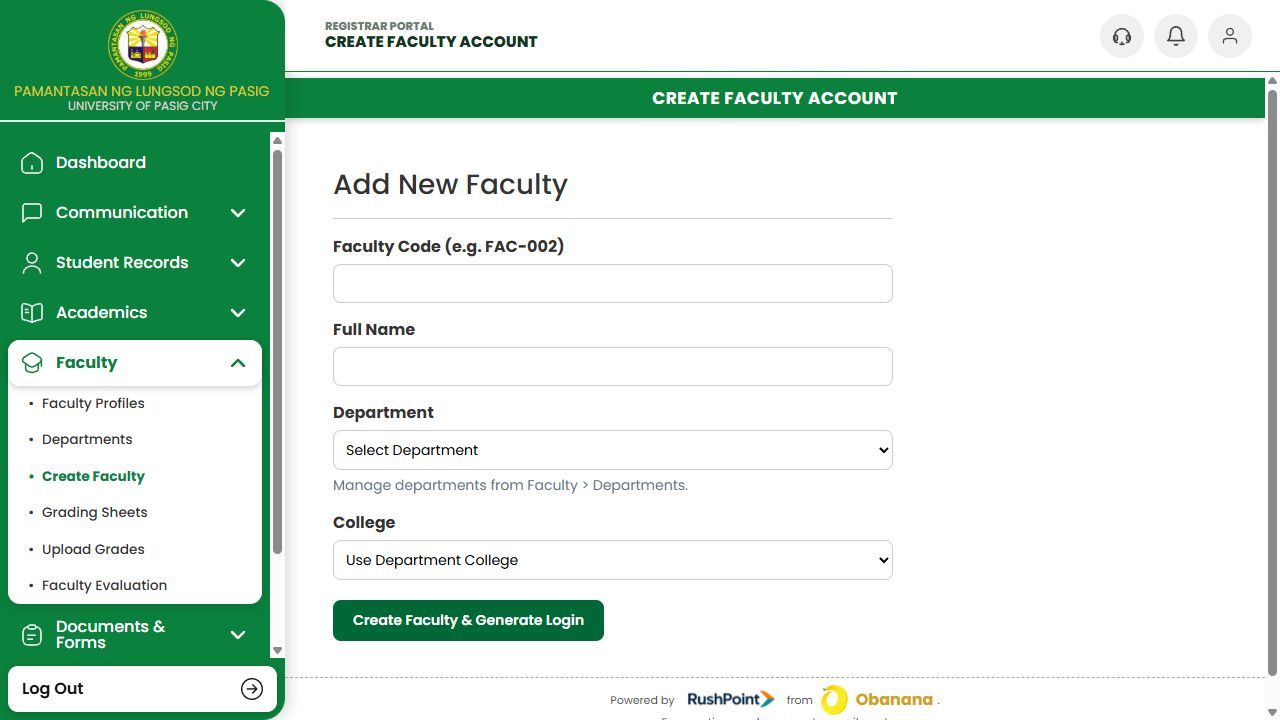
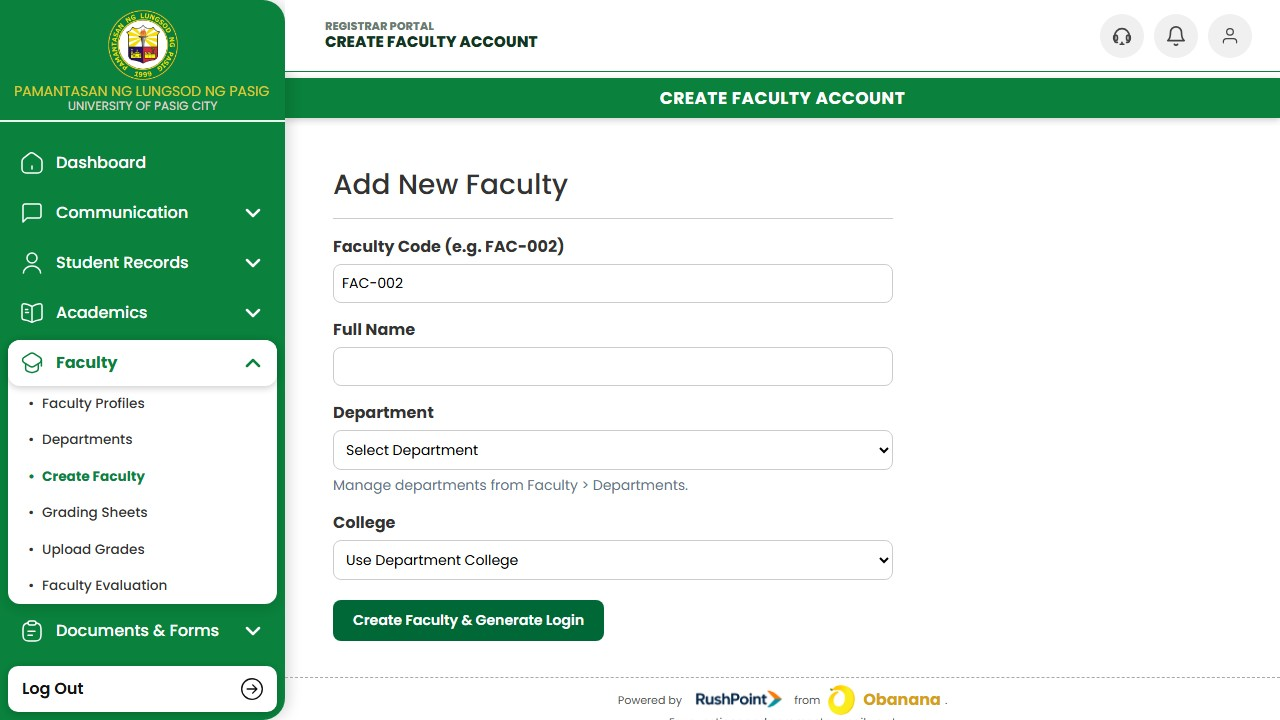
Dg

diff --git a/public/manual/registrar-training-flow.html b/public/manual/registrar-training-flow.html
@@ -633,7 +633,7 @@
       <div><div class="label">System</div><div class="value">PLP Demo SIS</div></div>
       <div><div class="label">Program</div><div class="value">Registrar UAT</div></div>
       <div><div class="label">Duration</div><div class="value">5 Days</div></div>
-      <div><div class="label">Test Cases</div><div class="value">76</div></div>
+      <div><div class="label">Test Cases</div><div class="value">78</div></div>
       <div><div class="label">Updated</div><div class="value">18 Aug 2026</div></div>
     </div>
   </div>
@@ -728,7 +728,7 @@
                 <text x="430" y="52.5" text-anchor="middle" font-family="var(--font-mono)" font-weight="700" font-size="13" fill="var(--surface)">3</text>
                 <text x="426" y="72" font-family="var(--font-body)" font-weight="700" font-size="13.5" fill="var(--ink)">Students &amp;</text>
                 <text x="426" y="87" font-family="var(--font-body)" font-weight="700" font-size="13.5" fill="var(--ink)">Enrollment</text>
-                <text x="426" y="103" font-family="var(--font-body)" font-size="11.5" fill="var(--ink-muted)">13 test cases</text>
+                <text x="426" y="103" font-family="var(--font-body)" font-size="11.5" fill="var(--ink-muted)">15 test cases</text>
               </g>
               <g>
                 <rect x="605" y="30" width="165" height="80" rx="9" fill="var(--surface)" stroke="var(--border)"></rect>
@@ -752,11 +752,11 @@
                 <text x="1022" y="49.5" text-anchor="middle" font-family="var(--font-mono)" font-weight="700" font-size="13" fill="var(--surface)">&#10003;</text>
                 <text x="1017" y="70" font-family="var(--font-body)" font-weight="700" font-size="13.5" fill="var(--ink)">Signed Off</text>
                 <text x="1017" y="86" font-family="var(--font-body)" font-weight="700" font-size="13.5" fill="var(--ink)">/ Go-Live</text>
-                <text x="1017" y="104" font-family="var(--font-body)" font-size="11" fill="var(--ink-muted)">76 / 76 pass</text>
+                <text x="1017" y="104" font-family="var(--font-body)" font-size="11" fill="var(--ink-muted)">78 / 78 pass</text>
               </g>
             </svg>
           </div>
-          <figcaption>Fig. 1 &mdash; 76 test cases in strict build order: nothing in Day 3 can be honestly tested until every Day 1 and Day 2 case passes. Two menu groups present in the codebase &mdash; Admissions and the Scholarship module &mdash; are currently disabled from the live sidebar and are out of scope for this pass; re-add them here if they're switched on.</figcaption>
+          <figcaption>Fig. 1 &mdash; 78 test cases in strict build order: nothing in Day 3 can be honestly tested until every Day 1 and Day 2 case passes. Two menu groups present in the codebase &mdash; Admissions and the Scholarship module &mdash; are currently disabled from the live sidebar and are out of scope for this pass; re-add them here if they're switched on.</figcaption>
         </figure>
       </section>
 
@@ -839,7 +839,7 @@
           <table class="uat">
             <thead><tr><th style="width:56px">ID</th><th style="width:190px">Process</th><th>Step-by-Step Actions</th><th>Expected Result</th><th style="width:230px">Image Result</th><th style="width:70px">Result</th><th style="width:130px">Sign-off</th></tr></thead>
             <tbody>
-              <tr><td class="uat-id">D2-01</td><td class="uat-feature">Create Faculty</td><td>Open Faculty &rarr; Create Faculty; create a faculty account under the Day 1 department.</td><td class="uat-expected">Account is created and that faculty member can sign in.</td><td><div class="result-box"><label><span class="chk"></span>Pass</label><label><span class="chk"></span>Fail</label></div></td><td><span class="blank-cell"></span></td></tr>
+              <tr><td class="uat-id">D2-01</td><td class="uat-feature">Create Faculty</td><td>Open Faculty &rarr; Create Faculty; enter a unique Faculty Code (Employee Number, e.g. FAC-002), full name, and the Day 1 department; save.</td><td class="uat-expected">Account is created under that Faculty Code and that faculty member can sign in.</td><td><div class="result-box"><label><span class="chk"></span>Pass</label><label><span class="chk"></span>Fail</label></div></td><td><span class="blank-cell"></span></td></tr>
               <tr><td class="uat-id">D2-02</td><td class="uat-feature">Faculty Profiles</td><td>Open Faculty &rarr; Faculty Profiles; search and open the profile just created.</td><td class="uat-expected">Profile shows correct personal and employment details.</td><td><div class="result-box"><label><span class="chk"></span>Pass</label><label><span class="chk"></span>Fail</label></div></td><td><span class="blank-cell"></span></td></tr>
               <tr><td class="uat-id">D2-03</td><td class="uat-feature">Room File</td><td>Open Academics &rarr; Term Setup &amp; Scheduling &rarr; Room File; add a room with a capacity; save.</td><td class="uat-expected">Room is created and available in Class Schedule Preparation.</td><td><div class="result-box"><label><span class="chk"></span>Pass</label><label><span class="chk"></span>Fail</label></div></td><td><span class="blank-cell"></span></td></tr>
               <tr><td class="uat-id">D2-04</td><td class="uat-feature">Close / Open Term</td><td>Open Term Setup &amp; Scheduling &rarr; Close/Open Term; open a new academic term.</td><td class="uat-expected">Term opens and becomes selectable across the system with no earlier term required to close first (first-run case).</td><td><div class="result-box"><label><span class="chk"></span>Pass</label><label><span class="chk"></span>Fail</label></div></td><td><span class="blank-cell"></span></td></tr>
@@ -867,16 +867,16 @@
 
       <section id="day-3">
         <h2>7. Day 3 &mdash; Students, Enrollment &amp; Classroom Operations</h2>
-        <p class="section-kicker">13 test cases &middot; the first day a student can actually exist in the system</p>
+        <p class="section-kicker">15 test cases &middot; the first day a student can actually exist in the system</p>
         <div class="callout callout--dep">
           <span class="callout-label">Why this is Day 3, not Day 1</span>
           <p>This is the earliest point in the week where adding a student means anything: there's a published curriculum to enroll them under, a section with a room and a teacher to enroll them into, and an open term to enroll them in. Testing Student Records before this point would only prove the search box works, not that enrollment does.</p>
         </div>
         <div class="day-walkthrough">
-          <div class="day-instructions"><span class="day-label">Day 3 walkthrough</span><h3>Create and enroll the test student</h3><ol class="steps"><li><div><strong>Create the student record.</strong>Complete identity, contact, program, and requirement information.</div></li><li><div><strong>Enroll into the open term.</strong>Select the correct curriculum, year level, section, and eligible subjects.</div></li><li><div><strong>Verify every downstream list.</strong>Confirm the student appears in Enrollment List, Class List, and the assigned faculty view.</div></li></ol><span class="menu-path">Registrar Menu &rarr; Student Management</span><a class="process-jump" href="#day-3-processes">View 13 breakdowns &darr;</a></div>
+          <div class="day-instructions"><span class="day-label">Day 3 walkthrough</span><h3>Create and enroll the test student</h3><ol class="steps"><li><div><strong>Create the student record.</strong>Complete identity, contact, program, and requirement information.</div></li><li><div><strong>Enroll into the open term.</strong>Select the correct curriculum, year level, section, and eligible subjects.</div></li><li><div><strong>Verify every downstream list.</strong>Confirm the student appears in Enrollment List, Class List, and the assigned faculty view.</div></li></ol><span class="menu-path">Registrar Menu &rarr; Student Management</span><a class="process-jump" href="#day-3-processes">View 15 breakdowns &darr;</a></div>
           <figure class="day-screen"><img src="/manual/media/registrar-day-3-enrollment.png" alt="Live Registrar Student Enrollment screen listing students, programs, and year levels"><figcaption>Live screen &mdash; Student Enrollment. Search or add the student, confirm program and year level, then open the enrollment action.</figcaption></figure>
         </div>
-        <div class="table-intro" id="day-3-processes"><h3>Day 3 process breakdowns</h3><span>Run D3-01 through D3-13 in order</span></div>
+        <div class="table-intro" id="day-3-processes"><h3>Day 3 process breakdowns</h3><span>Run D3-01 through D3-15 in order</span></div>
         <div class="table-wrap">
           <table class="uat">
             <thead><tr><th style="width:56px">ID</th><th style="width:170px">Process</th><th>Step-by-Step Actions</th><th>Expected Result</th><th style="width:230px">Image Result</th><th style="width:70px">Result</th><th style="width:130px">Sign-off</th></tr></thead>
@@ -894,11 +894,13 @@
               <tr><td class="uat-id">D3-11</td><td class="uat-feature">Attendance</td><td>Open Classroom &rarr; Attendance; record attendance for the section's class session.</td><td class="uat-expected">Attendance saves and reflects in the test student's record.</td><td><div class="result-box"><label><span class="chk"></span>Pass</label><label><span class="chk"></span>Fail</label></div></td><td><span class="blank-cell"></span></td></tr>
               <tr><td class="uat-id">D3-12</td><td class="uat-feature">Faculty Loads</td><td>Open Classroom &rarr; Faculty Loads; review the D2-01 faculty member's assigned sections and units.</td><td class="uat-expected">Load total matches the section actually assigned to that faculty member.</td><td><div class="result-box"><label><span class="chk"></span>Pass</label><label><span class="chk"></span>Fail</label></div></td><td><span class="blank-cell"></span></td></tr>
               <tr><td class="uat-id">D3-13</td><td class="uat-feature">Alumni Tracker</td><td>Open Student Records &rarr; Alumni Tracker; search an existing graduated student (not the test student).</td><td class="uat-expected">Graduate's record appears with correct graduation details.</td><td><div class="result-box"><label><span class="chk"></span>Pass</label><label><span class="chk"></span>Fail</label></div></td><td><span class="blank-cell"></span></td></tr>
+              <tr><td class="uat-id">D3-14</td><td class="uat-feature">Transferee Records</td><td>Open Student Records &rarr; Student List; open the test student's profile; go to the Background tab; under Educational Background, fill in School Last Attended; save.</td><td class="uat-expected">Field saves and still shows the entered school on reload, correctly capturing a transferee's prior school on the record.</td><td><div class="result-box"><label><span class="chk"></span>Pass</label><label><span class="chk"></span>Fail</label></div></td><td><span class="blank-cell"></span></td></tr>
+              <tr><td class="uat-id">D3-15</td><td class="uat-feature">Withdrawn Students</td><td>Open Student Records &rarr; Student List; select the Withdrawn status pill.</td><td class="uat-expected">List filters to withdrawn students correctly. Known gap: the Withdraw Enrollment button on Student Enrollment only shows a confirmation toast and does not persist a withdrawal &mdash; there is currently no in-app action that moves a student into Withdrawn status. Do not mark Fail for that; log it as an open item instead.</td><td><div class="result-box"><label><span class="chk"></span>Pass</label><label><span class="chk"></span>Fail</label></div></td><td><span class="blank-cell"></span></td></tr>
             </tbody>
           </table>
         </div>
         <div class="signoff-bar">
-          <div class="stat"><span class="k">Test cases</span><span class="v">13</span></div>
+          <div class="stat"><span class="k">Test cases</span><span class="v">15</span></div>
           <div class="stat"><span class="k">Passed</span><span class="v"><span class="blank-cell" style="min-width:60px"></span></span></div>
           <div class="stat"><span class="k">Failed</span><span class="v"><span class="blank-cell" style="min-width:60px"></span></span></div>
           <div class="sign"><div>Day 3 accepted by<span class="blank-cell"></span></div><div>Date<span class="blank-cell"></span></div></div>
@@ -995,7 +997,7 @@
       <section id="certification">
         <h2>10. Sign-off &amp; go-live</h2>
         <p class="section-kicker">What "accepted" means before the office goes live</p>
-        <p>The Portal is ready for live use once every one of the 76 rows above reads Pass, or every Fail has a linked fix that was re-tested and now reads Pass. Because each day's data feeds the next, a Fail on an earlier day should pause testing on whatever downstream row depends on it rather than being tested against broken data.</p>
+        <p>The Portal is ready for live use once every one of the 78 rows above reads Pass, or every Fail has a linked fix that was re-tested and now reads Pass. Because each day's data feeds the next, a Fail on an earlier day should pause testing on whatever downstream row depends on it rather than being tested against broken data.</p>
 
         <div class="table-wrap">
           <table>
@@ -1003,10 +1005,10 @@
             <tbody>
               <tr><td>Day 1</td><td>System &amp; Academic Structure Setup</td><td>15</td><td><span class="blank-cell"></span></td><td><span class="blank-cell"></span></td></tr>
               <tr><td>Day 2</td><td>Resources, Term &amp; Class Scheduling</td><td>15</td><td><span class="blank-cell"></span></td><td><span class="blank-cell"></span></td></tr>
-              <tr><td>Day 3</td><td>Students, Enrollment &amp; Classroom Ops</td><td>13</td><td><span class="blank-cell"></span></td><td><span class="blank-cell"></span></td></tr>
+              <tr><td>Day 3</td><td>Students, Enrollment &amp; Classroom Ops</td><td>15</td><td><span class="blank-cell"></span></td><td><span class="blank-cell"></span></td></tr>
               <tr><td>Day 4</td><td>Grading &amp; Academic Records</td><td>15</td><td><span class="blank-cell"></span></td><td><span class="blank-cell"></span></td></tr>
               <tr><td>Day 5</td><td>Requests, Reports &amp; System</td><td>18</td><td><span class="blank-cell"></span></td><td><span class="blank-cell"></span></td></tr>
-              <tr><td><strong>Total</strong></td><td></td><td><strong>76</strong></td><td><span class="blank-cell"></span></td><td><span class="blank-cell"></span></td></tr>
+              <tr><td><strong>Total</strong></td><td></td><td><strong>78</strong></td><td><span class="blank-cell"></span></td><td><span class="blank-cell"></span></td></tr>
             </tbody>
           </table>
         </div>
@@ -1015,7 +1017,7 @@
           <table>
             <thead><tr><th>Go-live checklist</th><th style="width:220px">Owner</th></tr></thead>
             <tbody>
-              <tr><td>All 76 test cases read Pass, or every Fail has a re-tested fix</td><td>Training facilitator / QA</td></tr>
+              <tr><td>All 78 test cases read Pass, or every Fail has a re-tested fix</td><td>Training facilitator / QA</td></tr>
               <tr><td>Test/sandbox data (the test program, test student, etc.) cleared before go-live</td><td>Registrar (role administrator)</td></tr>
               <tr><td>Current academic term and grading periods confirmed (D1-02, D1-13)</td><td>Registrar</td></tr>
               <tr><td>Signatories list up to date for COR, TOR, and clearance forms (D1-01)</td><td>Registrar</td></tr>
